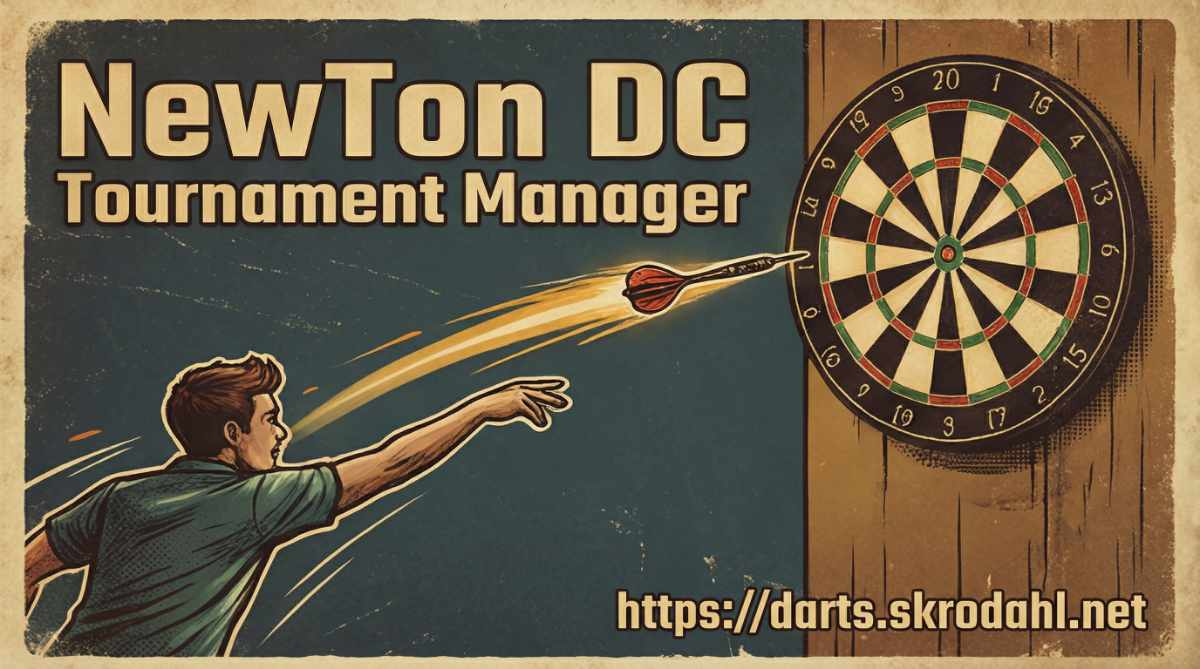
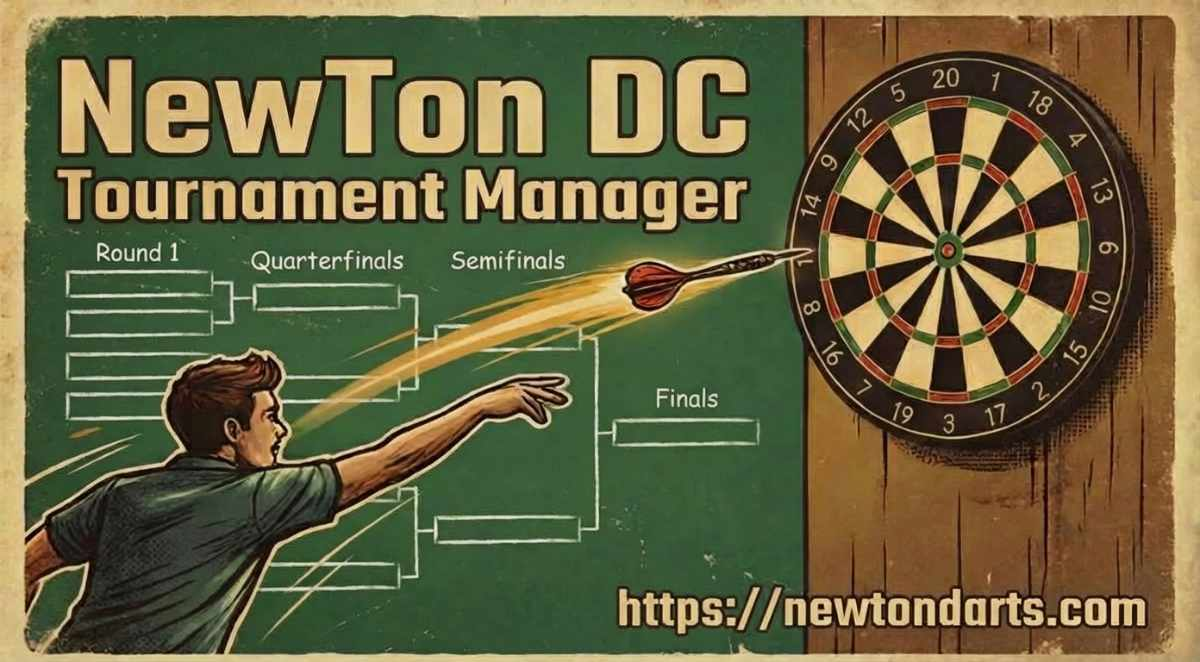
Updated OG graphics

diff --git a/js/main.js b/js/main.js
@@ -7,7 +7,7 @@ let matches = [];
 let currentStatsPlayer = null;
 
 // Application version
-const APP_VERSION = '4.2.13';
+const APP_VERSION = '4.3.0';
 
 // Application identity (encoded)
 const _0x4e = [78,101,119,84,111,110,32,68,67,32,84,111,117,114];
